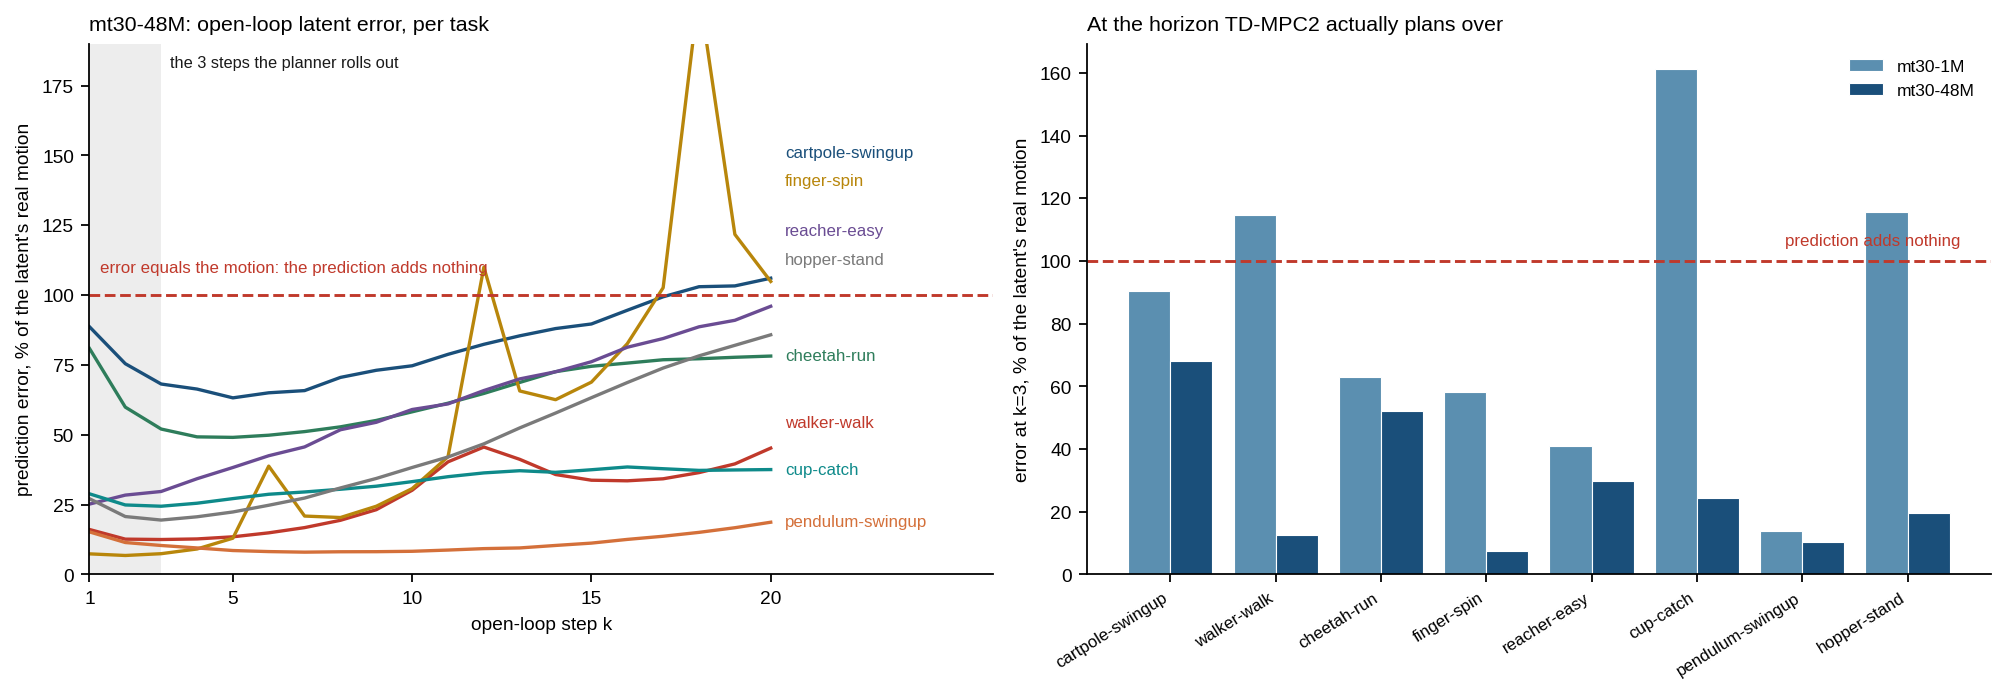
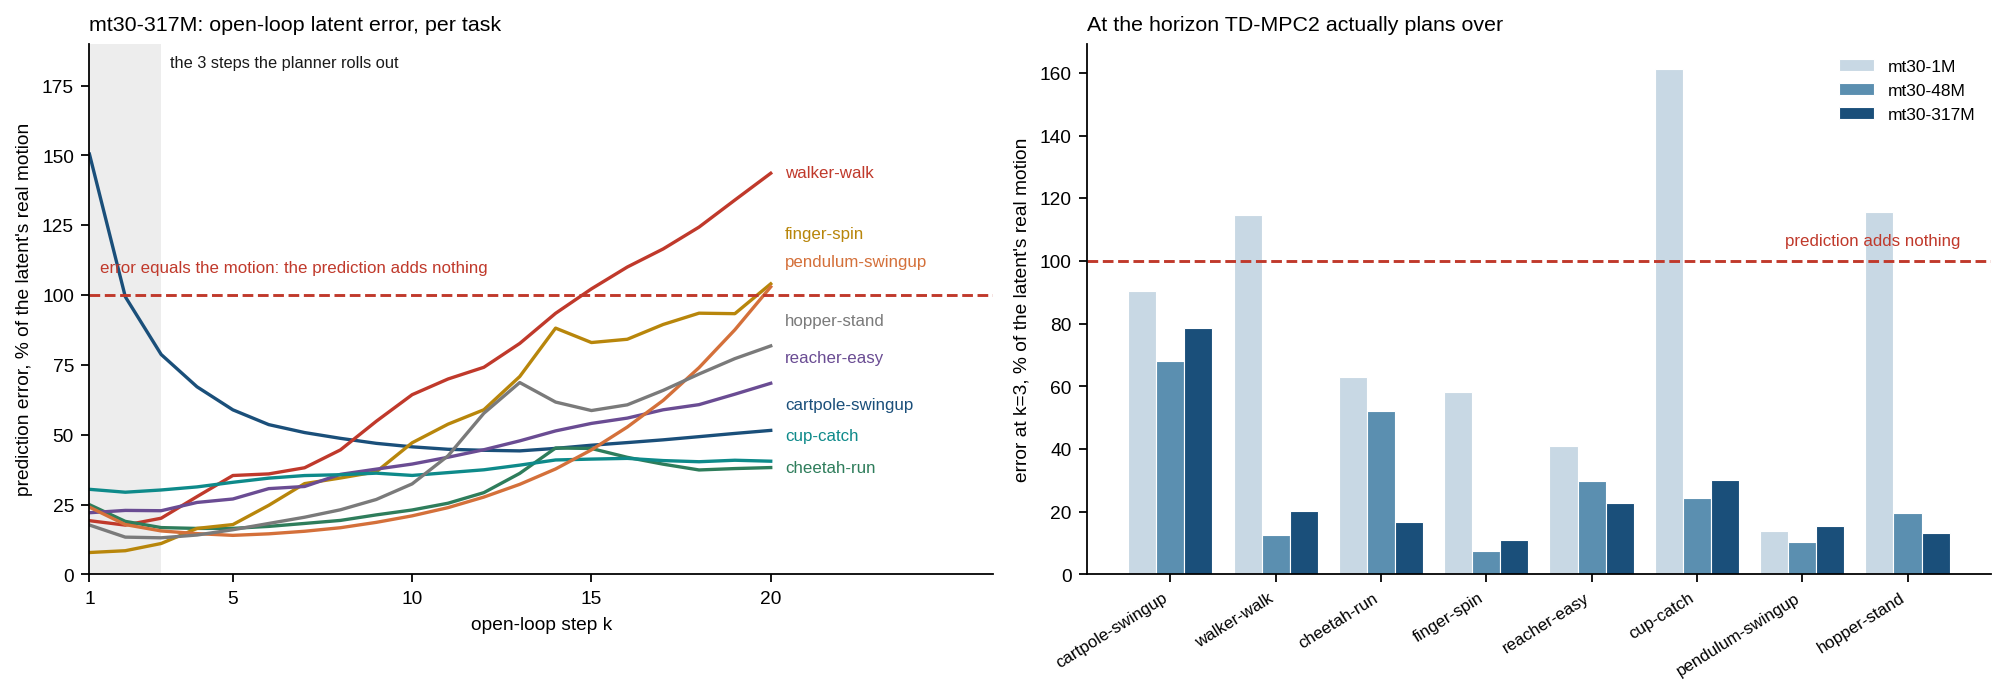
Add mt30-317M, which does not close the gap 48M left open
The two-size comparison read as "scale fixes it". With TD-MPC2's largest
released multitask model in, it does not. Going from 48M to 317M - 6.6x the
parameters - moves the median error at the planner's 3-step horizon from 22%
to 18% of the latent's real motion, and five of the eight tasks get worse by 4
to 11 points, against a rerun spread measured at 1.8. On cartpole-swingup the
317M model is beaten at the first step by predicting no change, which the 48M
model was not.

What 1M to 48M does fix is the catastrophic end: the three tasks whose error
exceeded the distance the latent travels, and the four beaten by the trivial
baseline, all disappear. What no size fixes is the variance. Worst task over
best runs 11.7x, 9.2x, 7.1x as the model grows, and the planner rolls the
dynamics forward the same 3 steps on every task at every size.

The claim checker now recomputes all three medians, the surviving spread and
the count of regressions from the committed arrays, so those sentences cannot
drift from the runs behind them. Progress lines flush, because a 317M task
takes long enough that a buffered one tells you nothing.

diff --git a/check_claims.py b/check_claims.py
@@ -123,19 +123,20 @@ def _tdmpc2_facts():
     """
     import numpy as np
     d = pathlib.Path(__file__).parent / "integrations" / "tdmpc2"
-    facts = {}
-    for size in ("1M", "48M"):
+    facts, ratios = {}, {}
+    for size in ("1M", "48M", "317M"):
         f = d / ("results_mt30-%s.npz" % size)
         if not f.exists():
             return None
         r = np.load(f)
         tasks = [t for t in r.files if not t.startswith("horizon__")]
-        ratio = np.array([100 * r[t][0][PLAN_H - 1] / max(r[t][1][PLAN_H - 1], 1e-12)
-                          for t in tasks])
-        hz = np.array([r["horizon__" + t][1] for t in tasks])   # median horizon
-        facts[size] = dict(median=float(np.median(ratio)), lo=float(ratio.min()),
-                           hi=float(ratio.max()), over=int((ratio > 100).sum()),
-                           n=len(tasks), h_lo=float(hz.min()), h_hi=float(hz.max()))
+        v = {t: 100 * r[t][0][PLAN_H - 1] / max(r[t][1][PLAN_H - 1], 1e-12) for t in tasks}
+        ratios[size] = v
+        a = np.array([v[t] for t in tasks])
+        facts[size] = dict(median=float(np.median(a)), lo=float(a.min()), hi=float(a.max()),
+                           spread=float(a.max() / a.min()), over=int((a > 100).sum()),
+                           n=len(tasks))
+    facts["regressions"] = sum(1 for t in ratios["48M"] if ratios["317M"][t] > ratios["48M"][t])
     return facts
 
 
@@ -143,14 +144,18 @@ def integration_claims(facts):
     """(name, {readme: regex}) for every TD-MPC2 number the READMEs quote."""
     b = lambda x: r"\*\*%s\*\*" % re.escape(x)
     both = lambda pat: {"README.md": pat, "README.zh-CN.md": pat}
-    f1, f48 = facts["1M"], facts["48M"]
+    f1, f48, f317 = facts["1M"], facts["48M"], facts["317M"]
     return [
-        ("mt30-48M median error at k=3",  both(b("%.0f%%" % f48["median"]))),
-        ("mt30-48M lowest task",          both(b("%.0f%%" % f48["lo"]))),
-        ("mt30-48M highest task",         both(b("%.0f%%" % f48["hi"]))),
         ("mt30-1M median error at k=3",   both(b("%.0f%%" % f1["median"]))),
+        ("mt30-48M median error at k=3",  both(b("%.0f%%" % f48["median"]))),
+        ("mt30-317M median error at k=3", both(b("%.0f%%" % f317["median"]))),
         ("mt30-1M tasks over 100%",       both(b(str(f1["over"])) + r"[^\n]{0,12}(?:of 8|/ ?8| 个)")),
-        ("mt30-48M shortest horizon",     both(b("%.0f" % f48["h_lo"]) + r"\s*\n?\s*(?:steps|步)")),
+        ("spread still %.1fx at 317M" % f317["spread"],
+         {"README.md": b("%.1fx" % f317["spread"]),
+          "README.zh-CN.md": b("%.1f 倍" % f317["spread"])}),
+        ("tasks worse at 317M than 48M",
+         {"README.md": b("%d of the 8 tasks get worse" % facts["regressions"]),
+          "README.zh-CN.md": b("8 个任务里有 %d 个反而变差" % facts["regressions"])}),
         ("8 tasks were measured",         both(r"8 dm_control (?:tasks|任务)|8 个 dm_control")),
     ]
 

diff --git a/integrations/tdmpc2/diagnose_tdmpc2.py b/integrations/tdmpc2/diagnose_tdmpc2.py
@@ -86,7 +86,7 @@ def main(cfg):
     print("  trained horizon %d   (consistency_coef %s - the largest term in their loss)"
           % (cfg.horizon, cfg.consistency_coef))
     print("  diagnosing %d tasks, %d-step open-loop rollouts from %d starts each\n"
-          % (len(tasks), K, STARTS))
+          % (len(tasks), K, STARTS), flush=True)
 
     rows, store = [], {}
     for task in tasks:
@@ -114,7 +114,9 @@ def main(cfg):
                      int((e_m < e_n).sum()), e_m[H] / max(e_n[H], 1e-12)))
         store[task] = np.stack([e_m, e_n])
         store["horizon__" + task] = np.array([h["p5"], h["p50"], h["p95"]])
-        print("  %-22s %d episodes, %d rollouts" % (task, len(Ps), len(P)))
+        # A 317M model takes tens of minutes per task, so this line has to
+        # arrive when the task finishes rather than when the buffer fills.
+        print("  %-22s %d episodes, %d rollouts" % (task, len(Ps), len(P)), flush=True)
 
     print("\n  %-20s %-20s %-20s %s"
           % ("task", "usable horizon", "beats 'no change'", "error at k=%d, as %% of" % cfg.horizon))

diff --git a/integrations/tdmpc2/README.md b/integrations/tdmpc2/README.md
@@ -44,34 +44,47 @@ points per episode (640 rollouts per task), 20 open-loop steps.
 ## What it found
 
 **At the horizon TD-MPC2 actually plans over, prediction quality varies about
-tenfold across tasks — for one model.**
+tenfold across tasks — and scaling the model does not close that gap.**
 
-| task | error at k=3, mt30-1M | error at k=3, mt30-48M | usable horizon, mt30-48M |
+| task | mt30-1M | mt30-48M | mt30-317M |
 |---|---|---|---|
-| cartpole-swingup | 90% | 68% | 14 |
-| walker-walk | 115% | 12% | 5 |
-| cheetah-run | 63% | 52% | 4 |
-| finger-spin | 58% | 7% | 13 |
-| reacher-easy | 41% | 30% | 11 |
-| cup-catch | 161% | 24% | 2 |
-| pendulum-swingup | 14% | 10% | 4 |
-| hopper-stand | 116% | 19% | 9 |
-| **median** | **77%** | **22%** | **7** |
+| cartpole-swingup | 90% | 68% | 79% |
+| walker-walk | 115% | 12% | 20% |
+| cheetah-run | 63% | 52% | 17% |
+| finger-spin | 58% | 7% | 11% |
+| reacher-easy | 41% | 30% | 23% |
+| cup-catch | 161% | 24% | 30% |
+| pendulum-swingup | 14% | 10% | 16% |
+| hopper-stand | 116% | 19% | 13% |
+| **median** | **77%** | **22%** | **18%** |
+| range | 14-161% | 7-68% | 11-79% |
+| worst / best | 11.7x | 9.2x | 7.1x |
 
-On the 1M model, three tasks are **above 100%**: at the horizon the planner
-scores its candidate actions over, the prediction error exceeds the distance
-the latent moves, so the rollout carries less information than assuming nothing
-changes. Four of the eight are also beaten by predicting no change at the very
-first step. Scaling to 48M fixes that — 0 of 8 beaten at one step, and the
-worst case falls from 161% to 68% — but the spread across tasks stays wide,
-7% to 68%.
+Read down the columns and the story is in two halves.
 
-The usable horizon behaves the same way. For mt30-48M the median runs from 2
-steps (`cup-catch`) to 14 (`cartpole-swingup`). On `cup-catch` the predictions
-are past tolerance before the planner's own 3-step lookahead finishes.
+**1M to 48M is a real fix.** The median falls from 77% to 22%, and the three
+tasks **above 100%** — where the prediction error at the planner's horizon
+exceeds the distance the latent actually moves, so the rollout carries less
+information than assuming nothing changes — all disappear. So do the four tasks
+where the model was beaten by predicting no change at the very first step.
 
-None of this is visible in the reward curve, and none of it is a number the
-codebase produces.
+**48M to 317M is not.** Another 6.6x the parameters moves the median from 22%
+to 18%, and **five of the eight tasks get worse**: cartpole-swingup +11,
+walker-walk +8, cup-catch +6, pendulum-swingup +5, finger-spin +4 percentage
+points, against a rerun spread measured at 1.8 points at most (see Caveats).
+Only cheetah-run gains much (-35). On `cartpole-swingup` the 317M model is
+beaten by predicting no change at the first step, which the 48M model was not:
+its one-step error is 150% of the distance the latent travels.
+
+**The spread never closes.** Worst-task over best-task runs 11.7x, 9.2x, 7.1x
+across the three sizes. Whatever makes `cartpole-swingup` hard for this model
+is not a capacity problem, and nothing in the pipeline reports it: the planner
+rolls the dynamics forward the same 3 steps on every task at every model size.
+
+The usable horizon tells the same story within each model — for mt30-48M the
+median runs from 2 steps (`cup-catch`) to 14 (`cartpole-swingup`) — but its
+tolerance is derived from that model's own error distribution, so it compares
+tasks within a model and not models against each other.
 
 ## Reproducing it
 
@@ -160,14 +173,16 @@ run these checkpoints.
 
 ## Caveats
 
-- 8 of the 30 mt30 tasks, 10 episodes each.
+- 8 of the 30 mt30 tasks, 10 episodes each. Each model size was run once,
+  except mt30-48M, which was run twice to measure the spread below.
 - **Reruns are not bit-identical.** MPPI amplifies GPU floating-point
   nondeterminism into different action sequences, so two runs of this script
   with the same seed visit different states. Measured on mt30-48M, the per-task
   percentages moved by at most 1.8 points and 0.6 on average, and the median
   across tasks did not move at all (22% both times; the range read 8-70% and
-  7-68%). Read the individual percentages to the nearest few points and the
-  tenfold spread as the finding.
+  7-68%). Read the individual percentages to the nearest few points, the
+  48M-to-317M regressions (4 to 11 points) as outside that, and the spread
+  across tasks as the finding.
 - Trajectories come from the agent's own planner, so this is prediction quality
   on the states the agent actually visits — the relevant distribution for
   planning, and not the same as replay-buffer error.

diff --git a/README.zh-CN.md b/README.zh-CN.md
@@ -100,14 +100,18 @@ world model rollout diagnosis   600 trajectories x 900 steps, state dim 3
 </p>
 
 TD-MPC2 规划时把学到的动力学**前推 3 步**再打分——在每一个任务上都是 3 步。
-在 8 个 dm_control 任务上测量(每个任务 640 条 rollout),恰好在那个视界处的误差,
-占潜变量**实际移动距离**的比例:
+在 8 个 dm_control 任务上测量(每个任务 640 条 rollout)、跨三个模型规模,
+恰好在那个视界处的误差占潜变量**实际移动距离**的比例:
 
-- **mt30-48M**:中位数 **22%**,但跨任务从 **7%** 到 **68%** ——规划器所依赖的那个量,
-  在同一个模型上就有十倍的差异。
 - **mt30-1M**:中位数 **77%**,且 8 个任务里有 **3** 个超过 **100%** ——在它据以规划的
   那个视界上,这条 rollout 携带的信息还不如"假设什么都没变"。
-- 在 `cup-catch` 上,48M 模型的预测 **2** 步就已越过容差,比它自己的 3 步前瞻还短。
+- **mt30-48M**:中位数 **22%**。上面那些失效全部消失。
+- **mt30-317M**:中位数 **18%**。参数再涨 6.6 倍几乎买不到东西,
+  而且 **8 个任务里有 5 个反而变差**,幅度 4 到 11 个百分点,而实测重跑抖动只有 1.8。
+
+**跨任务的差异始终没有收敛**:最差任务比最好任务,三档分别是 11.7 倍、9.2 倍、**7.1 倍**。
+规模能修掉灾难性的那几个,却修不掉方差——而这两件事流水线里都没有任何数字会报告:
+无论哪个规模、哪个任务,规划器都把动力学前推同样的 3 步。
 
 TD-MPC2 确实记录了 `consistency_loss`——那是同样 3 步内、带 `rho` 折扣、**未做任何
 归一化**的 MSE,在回放数据上算,上报到 wandb,但不进控制台、也不进保存的 CSV。

diff --git a/README.md b/README.md
@@ -113,16 +113,21 @@ using TD-MPC2's own code and environments, loaded through their own
 
 TD-MPC2 plans by rolling its learned dynamics forward **3 steps** and scoring
 the result — on every task. Measured across 8 dm_control tasks (640 rollouts
-each), the error at exactly that horizon, as a fraction of how far the latent
-actually moves:
+each), at three model sizes, the error at exactly that horizon as a fraction of
+how far the latent actually moves:
 
-- **mt30-48M**: median **22%**, but ranging **7%** to **68%** across tasks — a
-  tenfold spread in the quantity the planner depends on, for one model.
 - **mt30-1M**: median **77%**, and on **3** of 8 tasks above **100%** — at the
   horizon it plans over, the rollout carries less information than assuming
   nothing changes at all.
-- On `cup-catch` the 48M model's predictions are past tolerance after **2**
-  steps, before its own 3-step lookahead finishes.
+- **mt30-48M**: median **22%**. Every one of those failures is gone.
+- **mt30-317M**: median **18%**. Another 6.6x the parameters buys almost
+  nothing, and **5 of the 8 tasks get worse** by 4 to 11 points against a
+  rerun spread measured at 1.8.
+
+**The spread across tasks never closes**: worst task over best runs 11.7x, 9.2x,
+**7.1x** as the model grows. Scale fixes the catastrophic cases and leaves the
+variance, and nothing in the pipeline reports either — the planner rolls the
+dynamics forward the same 3 steps on every task at every size.
 
 TD-MPC2 does log `consistency_loss` — an undivided, `rho`-discounted MSE over
 those same 3 steps, on replay batches, to wandb but not to the console or the
